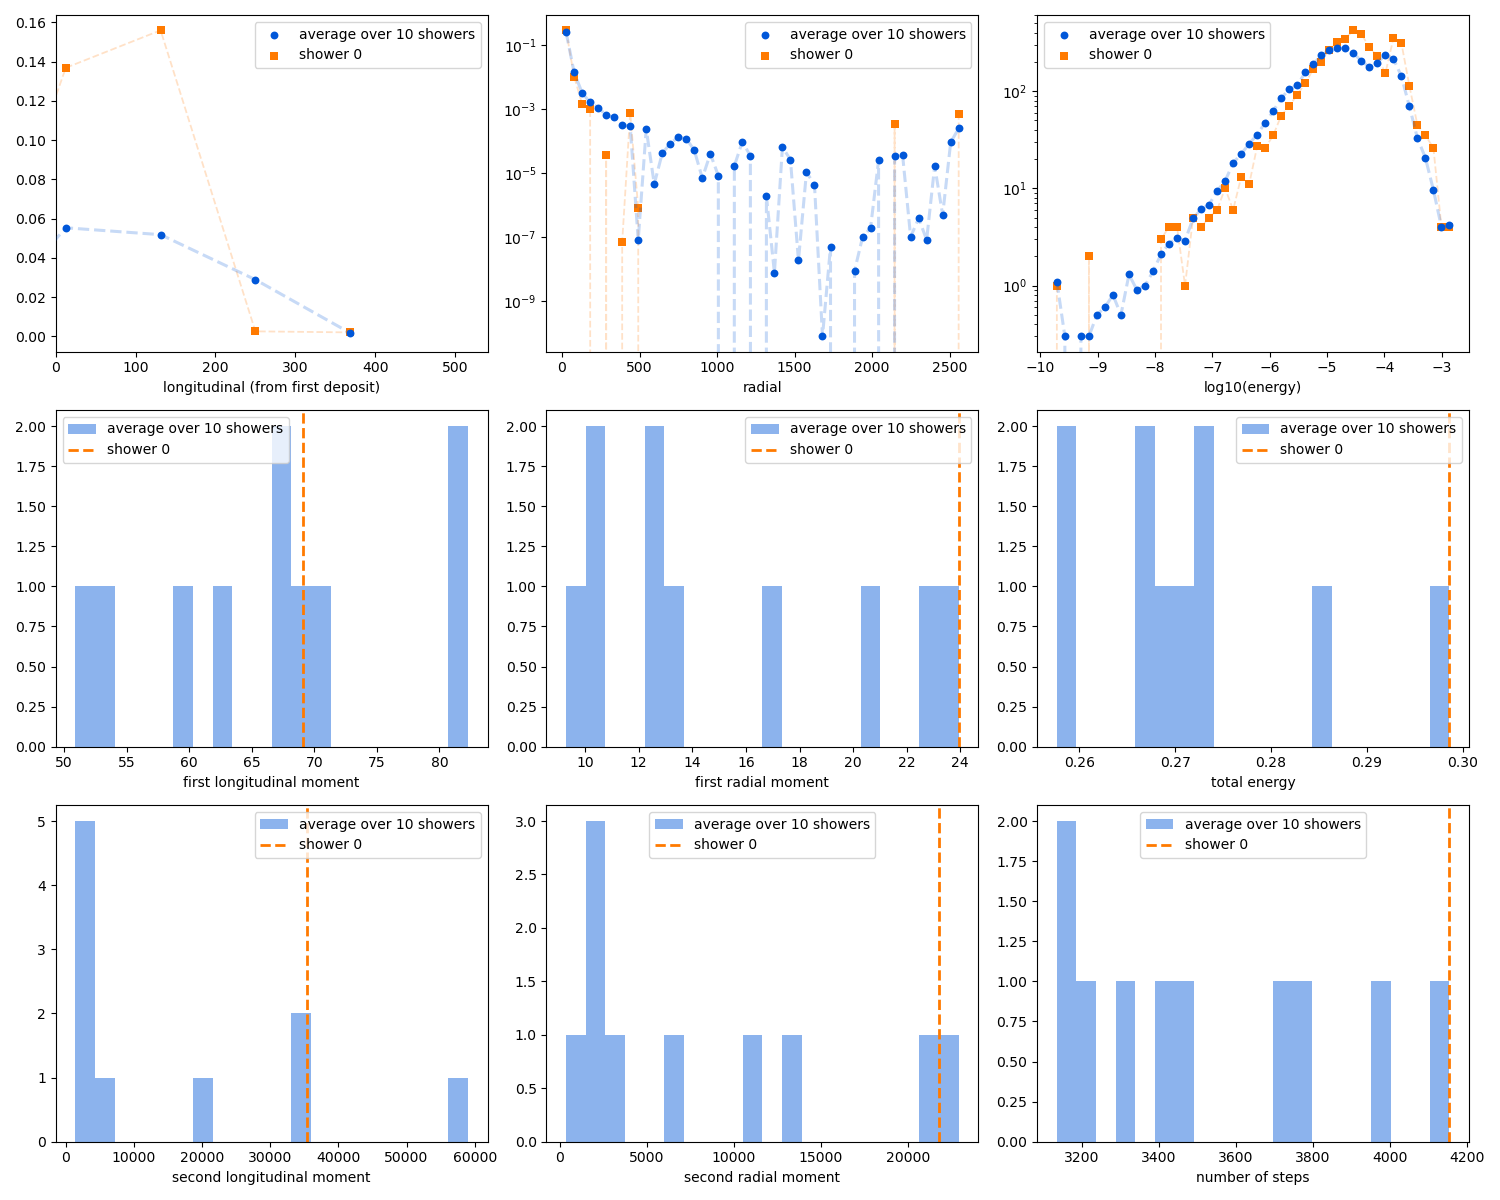
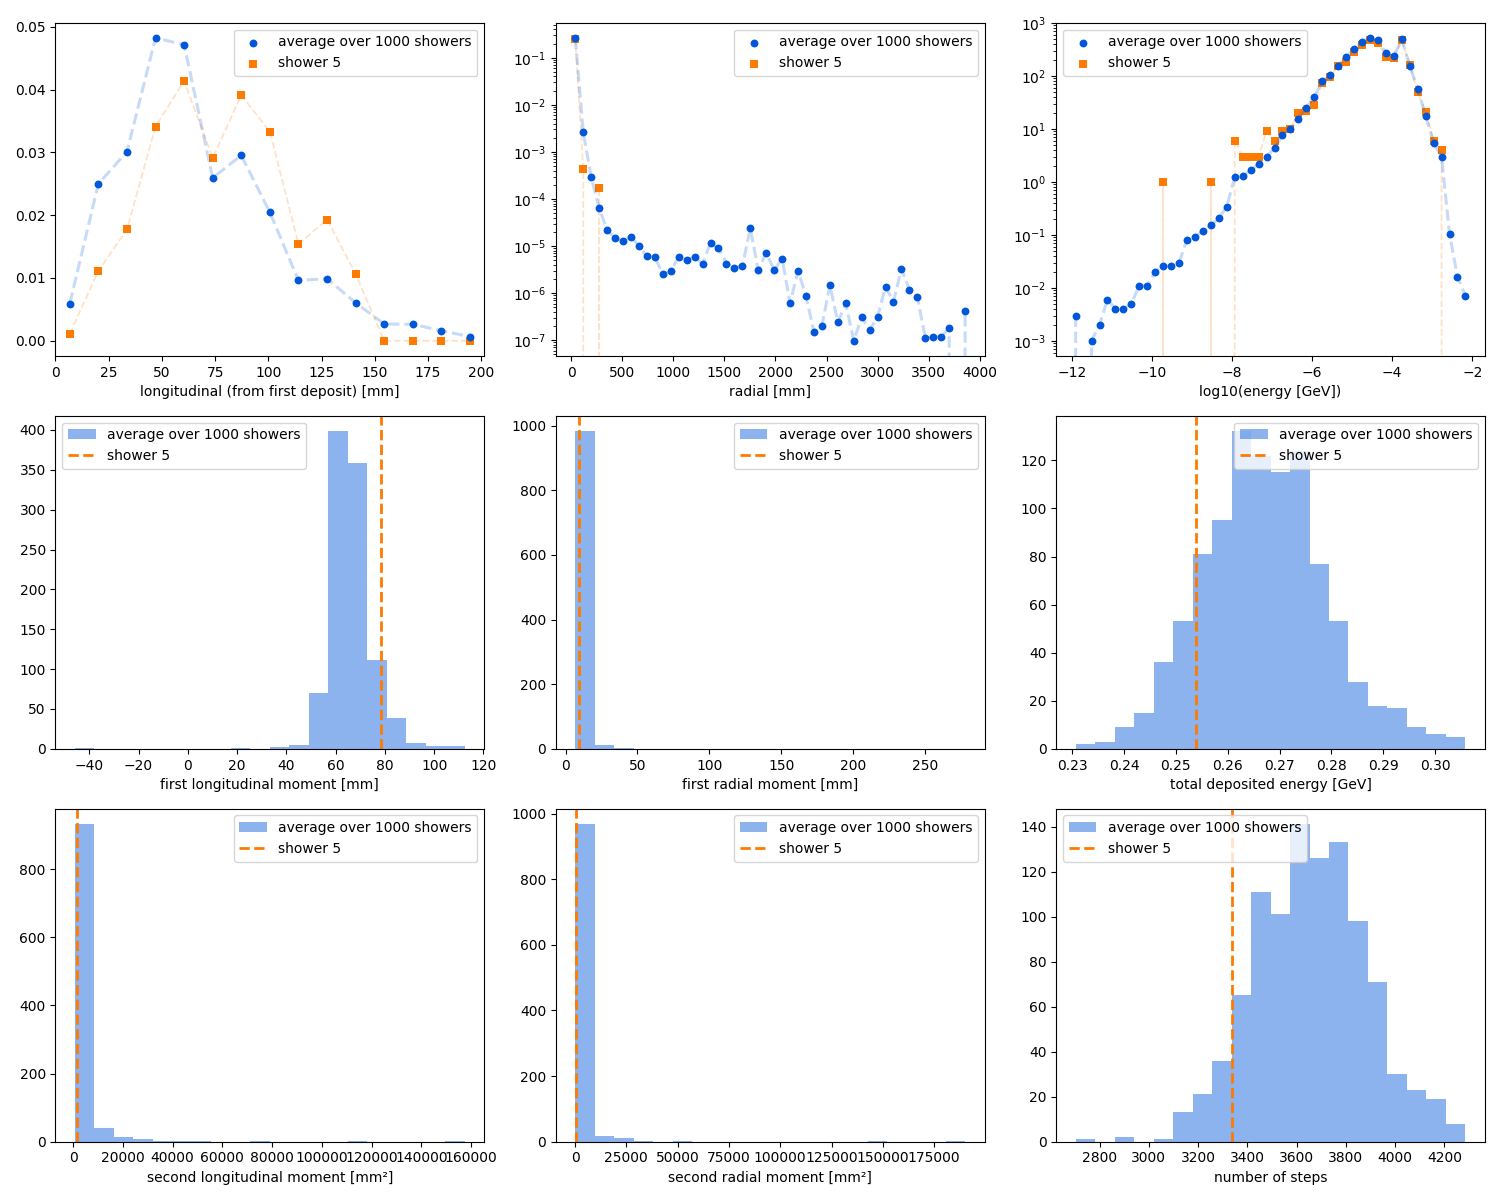
Update figures with better statistics

diff --git a/src/step2point/validation/benchmark_plots.py b/src/step2point/validation/benchmark_plots.py
@@ -17,6 +17,14 @@ class PlotArtifacts:
     outdir: Path
 
 
+def _upper_percentile_limit(values: np.ndarray, percentile: float = 99.0, pad: float = 0.05) -> float:
+    values = np.asarray(values, dtype=np.float64)
+    if values.size == 0:
+        return 1.0
+    upper = float(np.percentile(values, percentile))
+    return max(upper * (1.0 + pad), 1.0)
+
+
 def _safe_log10(values: np.ndarray, eps: float = 1e-12) -> np.ndarray:
     values = np.asarray(values, dtype=np.float64)
     return np.log10(np.clip(values, eps, None))
@@ -108,14 +116,19 @@ def generate_benchmark_plots(pairs, outdir: str | Path) -> PlotArtifacts:
     plot_hist(cell_ratios, outdir / "cell_count_ratio.png", "Cell count ratio", "N_cells_post / N_cells_pre")
     plot_hist(point_ratios, outdir / "point_count_ratio.png", "Point count ratio", "N_points_post / N_points_pre")
     plot_overlay_hist(
-        pre_cell_logs, post_cell_logs, outdir / "log_cell_energy.png", "Cell energy spectrum", "log10(cell energy)", logy=True
+        pre_cell_logs,
+        post_cell_logs,
+        outdir / "log_cell_energy.png",
+        "Cell energy spectrum",
+        "log10(cell energy [GeV])",
+        logy=True,
     )
     plot_overlay_hist(
         pre_point_logs,
         post_point_logs,
         outdir / "log_point_energy.png",
         "Point energy spectrum",
-        "log10(point energy)",
+        "log10(point energy [GeV])",
         logy=True,
     )
 
@@ -128,7 +141,7 @@ def generate_benchmark_plots(pairs, outdir: str | Path) -> PlotArtifacts:
         np.mean(long_profiles_post, axis=0),
         outdir / "longitudinal_profile_overlay.png",
         "Longitudinal profile",
-        "longitudinal coordinate",
+        "longitudinal coordinate [mm]",
     )
     plot_overlay_line(
         radial_centers,
@@ -136,7 +149,7 @@ def generate_benchmark_plots(pairs, outdir: str | Path) -> PlotArtifacts:
         np.mean(radial_profiles_post, axis=0),
         outdir / "radial_profile_overlay.png",
         "Radial profile",
-        "radial coordinate",
+        "radial coordinate [mm]",
     )
     plot_overlay_line(
         phi_centers,
@@ -165,9 +178,36 @@ def generate_observables_matrix(showers, outpath: str | Path, *, selected_index:
     avg_color = "#0057D9"
     selected_color = "#FF7A00"
 
+    all_long_values = np.concatenate([np.asarray(row["long_values"], dtype=np.float64) for row in all_data if np.size(row["long_values"]) > 0])
+    long_bins = np.linspace(0.0, _upper_percentile_limit(all_long_values), 16)
+    radial_bins = np.linspace(
+        0.0,
+        max(float(np.max(row["radial_values"])) for row in all_data if np.size(row["radial_values"]) > 0),
+        51,
+    )
+    log_energy_min = min(float(np.min(row["log_energy_values"])) for row in all_data if np.size(row["log_energy_values"]) > 0)
+    log_energy_max = max(float(np.max(row["log_energy_values"])) for row in all_data if np.size(row["log_energy_values"]) > 0)
+    log_energy_bins = np.linspace(log_energy_min, log_energy_max, 51)
+
+    def histogram_values(row, key):
+        if key == "long_profile":
+            return np.histogram(row["long_values"], bins=long_bins, weights=row["weights"])[0]
+        if key == "r_profile":
+            return np.histogram(row["radial_values"], bins=radial_bins, weights=row["weights"])[0]
+        if key == "log_energy":
+            return np.histogram(row["log_energy_values"], bins=log_energy_bins)[0]
+        raise ValueError(f"Unsupported profile key: {key}")
+
     def plot_avg(ax, data_list, key, xlabel, logy: bool = False):
-        bins = data_list[0][key][1]
-        values = np.array([row[key][0] for row in data_list], dtype=np.float64)
+        if key == "long_profile":
+            bins = long_bins
+        elif key == "r_profile":
+            bins = radial_bins
+        elif key == "log_energy":
+            bins = log_energy_bins
+        else:
+            raise ValueError(f"Unsupported profile key: {key}")
+        values = np.array([histogram_values(row, key) for row in data_list], dtype=np.float64)
         centers = 0.5 * (bins[:-1] + bins[1:])
         mean_values = np.mean(values, axis=0)
         ax.plot(centers, mean_values, color=avg_color, linewidth=2.2, alpha=0.22, linestyle="--", zorder=3)
@@ -185,16 +225,16 @@ def generate_observables_matrix(showers, outpath: str | Path, *, selected_index:
         if logy:
             ax.set_yscale("log")
         if key == "long_profile":
-            ax.set_xlim(left=0.0)
+            ax.set_xlim(0.0, long_bins[-1])
 
-    plot_avg(axes[0, 0], all_data, "long_profile", "longitudinal (from first deposit)")
-    plot_avg(axes[0, 1], all_data, "r_profile", "radial", logy=True)
-    plot_avg(axes[0, 2], all_data, "log_energy", "log10(energy)", logy=True)
+    plot_avg(axes[0, 0], all_data, "long_profile", "longitudinal (from first deposit) [mm]")
+    plot_avg(axes[0, 1], all_data, "r_profile", "radial [mm]", logy=True)
+    plot_avg(axes[0, 2], all_data, "log_energy", "log10(energy [GeV])", logy=True)
 
     for i, (key, label) in enumerate(
         zip(
             ["mean_long", "mean_r", "total_energy"],
-            ["first longitudinal moment", "first radial moment", "total energy"],
+            ["first longitudinal moment [mm]", "first radial moment [mm]", "total deposited energy [GeV]"],
             strict=True,
         )
     ):
@@ -204,7 +244,7 @@ def generate_observables_matrix(showers, outpath: str | Path, *, selected_index:
     for i, (key, label) in enumerate(
         zip(
             ["var_long", "var_r", "num_steps"],
-            ["second longitudinal moment", "second radial moment", "number of steps"],
+            ["second longitudinal moment [mm²]", "second radial moment [mm²]", "number of steps"],
             strict=True,
         )
     ):
@@ -214,11 +254,18 @@ def generate_observables_matrix(showers, outpath: str | Path, *, selected_index:
     if selected_index is not None:
         selected = all_data[selected_index]
         for i, key in enumerate(["long_profile", "r_profile", "log_energy"]):
-            centers = 0.5 * (selected[key][1][:-1] + selected[key][1][1:])
-            axes[0, i].plot(centers, selected[key][0], color=selected_color, linewidth=1.3, alpha=0.22, linestyle="--", zorder=1)
+            if key == "long_profile":
+                bins = long_bins
+            elif key == "r_profile":
+                bins = radial_bins
+            else:
+                bins = log_energy_bins
+            centers = 0.5 * (bins[:-1] + bins[1:])
+            values = histogram_values(selected, key)
+            axes[0, i].plot(centers, values, color=selected_color, linewidth=1.3, alpha=0.22, linestyle="--", zorder=1)
             axes[0, i].scatter(
                 centers,
-                selected[key][0],
+                values,
                 color=selected_color,
                 s=26,
                 marker="s",

diff --git a/src/step2point/vis/shower_display.py b/src/step2point/vis/shower_display.py
@@ -18,7 +18,12 @@ def _prepare_outpath(outpath: str | Path) -> Path:
 def _get_color_data(shower, color_by: str):
     if color_by == "energy":
         values = np.log10(np.clip(np.asarray(shower.E, dtype=np.float64), 1e-12, None))
-        return values, "inferno", Normalize(vmin=np.percentile(values, 1), vmax=np.percentile(values, 99)), "log10(E)"
+        return (
+            values,
+            "inferno",
+            Normalize(vmin=np.percentile(values, 1), vmax=np.percentile(values, 99)),
+            "log10(E [GeV])",
+        )
     if color_by == "pdg":
         if shower.pdg is None:
             raise ValueError("PDG colouring requires shower.pdg.")
@@ -45,6 +50,19 @@ def _auto_limits(values: np.ndarray, pad: float = 0.1) -> tuple[float, float]:
     q1, q2 = np.percentile(values, [1, 99])
     span = max(q2 - q1, 1.0)
     return float(q1 - pad * span), float(q2 + pad * span)
+
+
+def _upper_percentile_limit(values: np.ndarray, percentile: float = 99.0, pad: float = 0.05) -> float:
+    values = np.asarray(values, dtype=np.float64)
+    if values.size == 0:
+        return 1.0
+    upper = float(np.percentile(values, percentile))
+    return max(upper * (1.0 + pad), 1.0)
+
+
+def _zoomed_bins(values: np.ndarray, nbins: int = 20, percentile: float = 99.0, pad: float = 0.05) -> np.ndarray:
+    upper = _upper_percentile_limit(values, percentile=percentile, pad=pad)
+    return np.linspace(0.0, upper, nbins + 1)
 
 
 def scatter_xz(shower, outpath):
@@ -97,25 +115,27 @@ def plot_shower_distributions(shower, outpath):
     )
     log_energy = np.log10(np.clip(np.asarray(shower.E, dtype=np.float64), 1e-12, None))
     axes[0, 0].hist(log_energy, bins=50, color=fill_color, alpha=fill_alpha, log=True)
-    axes[0, 0].set_xlabel("log10(energy)")
+    axes[0, 0].set_xlabel("log10(energy [GeV])")
     axes[0, 0].set_ylabel("Count")
     axes[0, 0].set_title("Energy distribution")
     if shower.t is not None:
         axes[0, 1].hist(shower.t, bins=50, color=fill_color, alpha=fill_alpha, log=True)
-        axes[0, 1].set_xlabel("time")
+        axes[0, 1].set_xlabel("time [ns]")
         axes[0, 1].set_ylabel("Count")
         axes[0, 1].set_title("Time distribution")
+        axes[0, 1].set_xlim(left=0.0, right=float(np.percentile(shower.t, 95)))
     else:
         axes[0, 1].text(0.5, 0.5, "No time information", ha="center", va="center", transform=axes[0, 1].transAxes)
         axes[0, 1].set_axis_off()
-    axes[1, 0].hist(long, bins=40, weights=shower.E, color=fill_color, alpha=fill_alpha)
-    axes[1, 0].set_xlabel("longitudinal (from first deposit)")
-    axes[1, 0].set_ylabel("Weighted count")
+    long_bins = _zoomed_bins(long, nbins=20)
+    axes[1, 0].hist(long, bins=long_bins, weights=shower.E, color=fill_color, alpha=fill_alpha)
+    axes[1, 0].set_xlabel("longitudinal (from first deposit) [mm]")
+    axes[1, 0].set_ylabel("Deposited energy per bin [GeV]")
     axes[1, 0].set_title("Longitudinal profile")
-    axes[1, 0].set_xlim(left=0.0)
+    axes[1, 0].set_xlim(0.0, long_bins[-1])
     axes[1, 1].hist(radial, bins=40, weights=shower.E, color=fill_color, alpha=fill_alpha)
-    axes[1, 1].set_xlabel("radial")
-    axes[1, 1].set_ylabel("Weighted count")
+    axes[1, 1].set_xlabel("radial [mm]")
+    axes[1, 1].set_ylabel("Deposited energy per bin [GeV]")
     axes[1, 1].set_title("Radial profile")
     fig.tight_layout()
     fig.savefig(outpath)
@@ -137,6 +157,7 @@ def plot_shower_overview(shower, outpath, *, axis_override=None):
         axis=axis,
         longitudinal_origin="first_deposit",
     )
+    long_bins = _zoomed_bins(long, nbins=20)
     axis_line = np.vstack([-100.0 * axis, 100.0 * axis])
     xlim = _auto_limits(coords[:, 0])
     ylim = _auto_limits(coords[:, 1])
@@ -172,10 +193,10 @@ def plot_shower_overview(shower, outpath, *, axis_override=None):
     ax_yz.set_xlabel("y (mm)")
     ax_yz.set_ylabel("z (mm)")
     ax_lr.scatter(long, radial, c=colours, cmap="plasma", s=8)
-    ax_lr.set_xlabel("Longitudinal (from first deposit)")
-    ax_lr.set_ylabel("Radius")
+    ax_lr.set_xlabel("Longitudinal (from first deposit) [mm]")
+    ax_lr.set_ylabel("Radius [mm]")
     ax_lr.set_title("Cylindrical: long vs r")
-    ax_lr.set_xlim(left=0.0)
+    ax_lr.set_xlim(0.0, long_bins[-1])
     ax_polar.scatter(phi, radial, c=colours, cmap="plasma", s=8)
     ax_polar.set_title("Polar: r vs phi")
     fig.colorbar(scatter3d, ax=[ax_3d, ax_xy, ax_xz, ax_yz], shrink=0.7, label="Energy")

diff --git a/examples/inspect_showers.py b/examples/inspect_showers.py
@@ -55,8 +55,15 @@ def main():
             axis=axis,
             longitudinal_origin="centroid",
         )
+        long_first, _, _ = longitudinal_radial_phi(
+            shower,
+            centroid=centroid,
+            axis=axis,
+            longitudinal_origin="first_deposit",
+        )
         print(
-            f"shower_id={shower.shower_id} first_deposit_longitudinal={float(long_centroid[0]):.3f} mm "
+            f"shower_id={shower.shower_id} first_point_longitudinal_centroid_origin={float(long_centroid[0]):.3f} mm "
+            f"first_point_longitudinal_first_deposit_origin={float(long_first[0]):.3f} mm "
             f"first_point_xyz=({float(shower.x[0]):.3f}, {float(shower.y[0]):.3f}, {float(shower.z[0]):.3f}) mm"
         )
         plot_shower_projections(shower, outdir / f"shower_{shower.shower_id}_projections.png")

diff --git a/src/step2point/validation/observables.py b/src/step2point/validation/observables.py
@@ -39,6 +39,11 @@ def compute_shower_observables(shower, *, axis_override=None) -> dict[str, objec
     var_long = float(np.average((long - mean_long) ** 2, weights=weights)) if long.size else float("nan")
     var_r = float(np.average((radial - mean_r) ** 2, weights=weights)) if radial.size else float("nan")
     return {
+        "long_values": long,
+        "radial_values": radial,
+        "phi_values": phi,
+        "log_energy_values": _safe_log10(weights),
+        "weights": weights,
         "long_profile": np.histogram(long, bins=30, weights=weights),
         "r_profile": np.histogram(radial, bins=50, weights=weights),
         "phi_profile": np.histogram(phi, bins=np.linspace(-np.pi, np.pi, 51), weights=weights),

diff --git a/docs/validation.md b/docs/validation.md
@@ -103,6 +103,17 @@ Expected outputs:
 - `shower_<id>_distributions.png`
 - `shower_<id>_overview.png`
 
+## Units used in the plots
+
+The example HDF5 files in this repository are produced by [https://gitlab.cern.ch/fastsim/step2point/-/tree/v1.1.0?ref_type=tags](step2point dataset repository), which preserves the EDM4hep values directly:
+
+- deposited energy is plotted as `GeV`
+- time is plotted as `ns`
+- positions and shower-shape coordinates are plotted as `mm`
+
+NOTE:
+This matters only for axis labels and interpretation of the plots. The reclustering/compression code itself does not assume a special unit system: it preserves the units present in the input arrays. If an input dataset used different but internally consistent units, the compressed output would remain in the same units.
+
 # Validation results
 
 ## EM showers
@@ -115,15 +126,15 @@ Single-shower inspection outputs produced with `--shower-index 0` on the gamma s
 
 ### Projections
 
-![gamma projections](assets/images/inspect_gamma/shower_0_projections.png)
+![gamma projections](assets/images/inspect_gamma/shower_5_projections.png)
 
 ### Distributions
 
-![gamma distributions](assets/images/inspect_gamma/shower_0_distributions.png)
+![gamma distributions](assets/images/inspect_gamma/shower_5_distributions.png)
 
 ### Overview
 
-![gamma overview](assets/images/inspect_gamma/shower_0_overview.png)
+![gamma overview](assets/images/inspect_gamma/shower_5_overview.png)
 
 ### Dataset observables matrix
 
